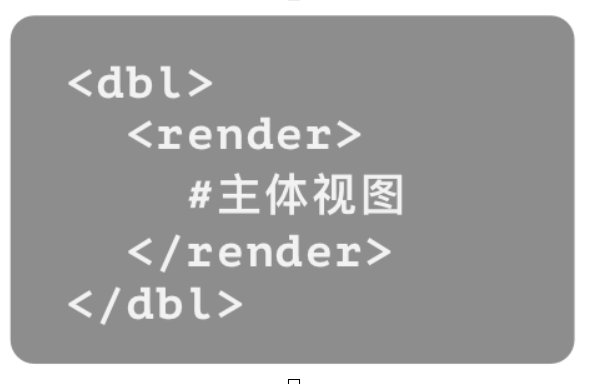
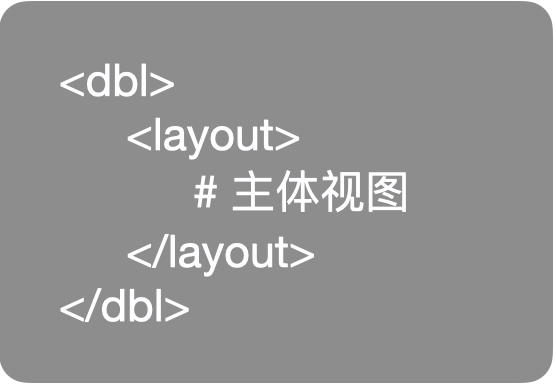
更新布局描述

diff --git a/docs/dsl/layout_logic.md b/docs/dsl/layout_logic.md
@@ -1,123 +1,93 @@
 # DreamBox的布局逻辑
 
-## 0. 设计启发
+## 0. 布局方式
 
-DreamBox的布局逻辑受Android的约束布局启发，基本思想等同于约束布局。如果开发者对约束布局比较了解，相信一定能够更加快速得进入状态。DB在后续的迭代中不会保证完全符合约束布局的逻辑，并且不追求完全支持约束布局所提供的所有特性。所以，具体的DB布局逻辑需要以此文档中描述的为准。
+为了进一步降低学习成本以及IOS和Android两端布局的一致性，DreamBox的布局逻辑从v0.4版本，用flexbox方式替换了原来的约束布局方式。
 
-附：[Android官方约束布局介绍](https://developer.android.google.cn/training/constraint-layout)
+## 1. 布局引擎
 
-## 1. 基础概念
+flexbox方式实现上，为保证稳定性和一致性，底层采用了被广泛使用的yoga作为布局引擎的实现。
 
-### 1.1 X轴、Y轴、Z轴
+## 2. 布局属性
 
-视图元素在横向上的排布为X轴：
+### 2.1 容器支持的属性
+- flex-direction
+    -flex-direction
+    -row
+    -column
+    -row-reverse
+    -column-reverse
+- flex-wrap
+    - wrap
+    - nowrap
+    - wrap-reverse
+- justify-content
+    - flex-start
+    - flex-end
+    - center
+    - space-between
+    - space-around
+    - space-evenly
+- align-items
+    - flex-start
+    - flex-end
+    - center
+    - stretch
+    - baseline
+- align-content
+    - flex-start
+    - flex-end
+    - center
+    - stretch
+    - space-between
+    - space-around
 
-![](../assets/layout_logic_1.png ':size=35%')
-
-视图元素在竖向上的排布为Y轴：
-
-![](../assets/layout_logic_2.png ':size=20%')
-
-视图元素的层层覆盖关系可以理解为Z轴：
-
-![](../assets/layout_logic_3.png ':size=25%')
-
-如上图所示，C在Z轴上的顺序最为优先。对于DSL来说，每个视图元素的声明顺序（行号）即为其最终视图展示的Z轴顺序。以上图为例，在DSL中应是先声明了A，后B，最后是C。
-
-### 1.2 基准对象
-
-假定已有视图元素A被放置在了画布的（0，0）处（左上角）：
-
-![](../assets/layout_logic_4.png ':size=20%')
-
-新增视图元素B，在不允许直接指定坐标的情况下，要让B放置在画布上，那么一定需要依赖于画布上已有的元素作为基准元素，B与其产生相对位置关系才可以成功放置。
-
-假如，我们想将B放置在A的下方，抽象理解上应该是：
-
-![](../assets/layout_logic_5.png ':size=20%')
-
-中间的箭头意为：B的顶端坐标依赖于A的底端坐标，即B在Y轴上依赖于A的位置。（暂时忽略B的X轴关系，认为会默认居左）。
-
-#### 1.2.1 parent
-
-在上边，我们是通过假定确定了A可以是在画布的左上角。但实际上，在布局逻辑中认为画布本身也是一个抽象的视图元素，名为：`parent`，所以A可以置于画布左上角的布局逻辑实际上是因为：
-
-![](../assets/layout_logic_6.png ':size=20%')
-
-（暂时忽略A与布局边界的间距尺寸）
-
-### 1.3 约束
-
-一个视图对象至少有一个基准对象，至多两个。并且在X轴和Y轴上都（分别）和基准对象有“关系”，才能构成一个合法的布局逻辑。这个关系就叫做**约束关系**。
-
-![](../assets/layout_logic_7.png ':size=20%')
-
-如上图中，A是B的基准对象，B向A的左端对齐（X轴），B在A之下（Y轴）。三个元素（X轴、Y轴、基准元素）齐备，B的布局逻辑合理。在DSL中，如`leftToLeft`、`rightToRight`等为控制X轴的约束属性，`topToTop`、`bottomToBottom`等为控制Y轴的约束属性
-
-## 2. 复杂约束示例
-
-![](../assets/layout_logic_8.png ':size=20%')
-
-上图中有三个视图元素A、B、C：
-
-1. A在X、Y轴上以画布（parent）为基准对象定位在了左上角
-2. B以A为基准对象，顶端与其顶端对齐（`topToTop`），左边以其右边为基准（`leftToRight`），视觉上定位在了A的右侧
-3. C较为特殊，其有两个基准对象。在X轴上以B为基准对象，左边与B的左边对齐（`leftToLeft`），在Y轴上以A为基准对象，上边以A的底边为基准（`topToBottom`）。视觉上定位在画布的右下角
-
-## 3. 约束关系与尺寸的共同作用
-
-> 这里所说的“尺寸”指的是`width`或`height`
-
-### 3.1 尺寸的可选值
-
-- `fill` 铺满父布局所允许的最大空间。是由外向内的测量机制
-- `wrap` 自适应。对于不同的视图元素，其意义可能不同。如`text`是根据字数内容自动测量宽高，但对于`view`来说`wrap`的宽高都会是0。对于开发者自行扩展的布局，也要注意妥善处理`wrap`属性的尺寸测量机制。设计上，`wrap`应是由内向外的测量机制
-- 非0指定值。开发者指定的像素或适配尺寸值，明确指定相关视图的宽高
-- 0。表示此视图的尺寸由约束关系确定
-
-### 3.2 基础理念
-
-1. 尺寸决定了视图元素在画布中的大小
-2. 约束关系决定了视图元素在画布中的位置（坐标）
-3. 除了0之外的尺寸值都是视图自行决定大小，与约束无关
-4. 0是在视图元素的（所有）基准对象的位置确定后，再对此视图元素进行尺寸规定的一个case。可以简单的理解为，0可等价于其基准对象的具体位置所计算得出的具体尺寸作为非0指定值设置给该视图元素的尺寸
-
-### 3.3 应用穷举
-
-> 下边的应用场景中会假设A的布局位置已经确定，B以A为基准对象
-
-#### 3.3.1 fill+约束
-
-假设是在X轴上`fill`，那么会在宽度上对齐父布局进行充满。其在X轴上的约束关系生效但不会影响其宽度。
-
-![](../assets/layout_logic_9.png ':size=35%')
-
-注：
-
-1. 红色边框表示画布的实际尺寸
-2. B在宽度上因为`fill`的存在会撑满
-3. B的`rightToRight`即使不给也没有关系，因为X轴上已经有了`leftToLeft`
-
-#### 3.3.2 wrap+约束
-
-![](../assets/layout_logic_10.png ':size=35%')
-
-我们看宽度。B会按照自己的规则在X轴向上自动测量尺寸。与其基准对象A的左边界进行对齐。
-
-若此时加入X轴上的右侧约束`rightToRight`：
-
-![](../assets/layout_logic_11.png ':size=35%')
-
-因为左右对同一基准产生了约束，所以会自动寻求中值，最终的效果是在X轴上与A的中线对齐。（Y轴上是同样的布局原理）
-
-#### 3.3.3 非0指定值+约束
-
-同wrap。
-
-#### 3.3.4 0+约束
-
-0表示此视图布局严格遵循约束关系为其限定的尺寸：
-
-![](../assets/layout_logic_12.png ':size=35%')
-
-在X轴上，B与A的左右产生约束关系，同时宽度width声明为0，即：告诉布局系统它的宽度完全由约束关系决定。结果是，B的宽度会完全跟随A的宽度。（Y轴上是同样的布局原理）
+### 2.2 子元素支持的属性
+- 宽
+    - key: width
+    - value: 固定值，例：20dp; 百分比，例：50%
+- 高
+    - key: height
+    - value: 固定值，例：20dp; 百分比，例：100%
+- 外边距
+    - key: margin，value: 固定值，例：20dp
+    - key: marginLeft，value: 固定值，例：10dp，优先级大于margin
+    - key: marginTop，value: 固定值，例：10dp，优先级大于margin
+    - key: marginRight，value: 固定值，例：10dp，优先级大于margin
+    - key: marginBottom，value: 固定值，例：10dp，优先级大于margin
+- 内边距
+    - key: padding，value: 固定值，例：20dp
+    - key: paddingLeft，value: 固定值，例：10dp，优先级大于padding
+    - key: paddingTop，value: 固定值，例：10dp，优先级大于padding
+    - key: paddingRight，value: 固定值，例：10dp，优先级大于padding
+    - key: paddingBottom，value: 固定值，例：10dp，优先级大于padding
+- 弹性扩展
+    - key: flex-grow
+    - value: float型，例：1，2.5
+- 弹性扩收缩
+    - key: flex-shrink
+    - value: float型，例：1，2.5
+- 弹性伸缩基准值
+    - key: flex-basis
+    - value: 固定值，例：20dp; 百分比，例：50%
+- 单个元素在侧轴的对齐方式
+    - key: align-self
+    - value: flex-start,flex-end,center,stretch,baseline
+- 单个元素位置布局方式
+    - key: positionType
+    - value: absolute 相对布局，relative 绝对布局
+- 绝对布局方式，左对齐及左边距
+    - key: positionLeft
+    - value: 固定值，例：20dp; 百分比，例：50%
+- 绝对布局方式，顶部对齐及顶部边距
+    - key: positionTop
+    - value: 固定值，例：20dp; 百分比，例：50%
+- 绝对布局方式，右对齐及右边距
+    - key: positionRight
+    - value: 固定值，例：20dp; 百分比，例：50%
+- 绝对布局方式，底部对齐及底部边距
+    - key: positionBottom
+    - value: 固定值，例：20dp; 百分比，例：50%
+- 宽高比
+    - key: aspectRatio
+    - value: float型

diff --git a/docs/dsl/write_a_dsl.md b/docs/dsl/write_a_dsl.md
@@ -17,7 +17,7 @@ DreamBox的DSL书写采用XML格式，一切皆为节点。
 ![](../assets/base_dsl_struct.png ':size=20%')
 
 - `dbl` XML的固定根节点，可以视作为最终生成的DBView的根布局，特殊之处在于可以包裹`meta`元数据、`alias`等非视图的特殊子节点
-- `render` 一样可以视作DBView的根布局，与`dbl`的关系是附属关系，区别是此节点只能直接包含视图节点。特点是全局（单个DSL内）只能有一个此节点的定义存在
+- `layout` 一样可以视作DBView的根布局，与`dbl`的关系是附属关系，区别是此节点只能直接包含视图节点。
 - `#主体视图` 是开发者需要主要编写的目标地
 
 ### 节点嵌套关系
